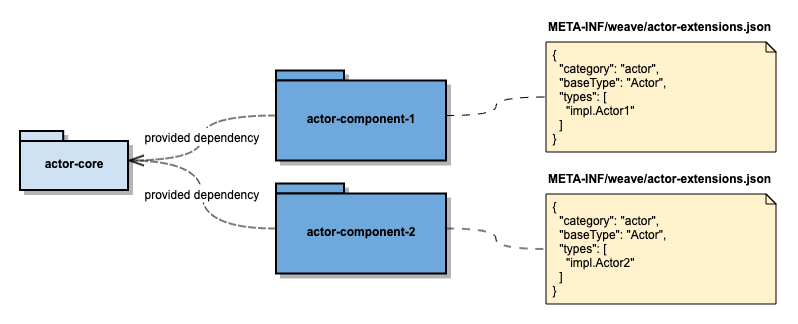
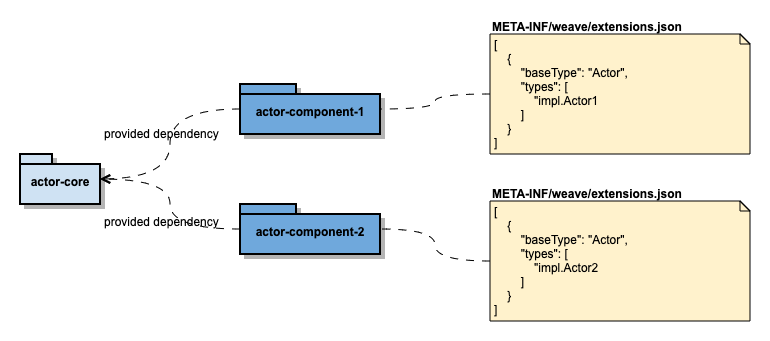
update to reflect change in extensions META-INF

Changed region(s): [[0.0, 0.216, 0.9974, 0.9568], [0.6234, 0.0617, 0.9974, 0.4938]]

diff --git a/docs/control-actor-product-component-structure.md b/docs/control-actor-product-component-structure.md
@@ -1,8 +1,10 @@
 # An extensible component structure built around { CONTROL, ACTOR, PRODUCT }
 
 ## The Basic Idea  
-Weave has an extensible component structure based on an idea distilled from a common practice in software engineering, **config**, which is widely adopted in methods/functions, classes, components, applications and complex distributed systems. Software engineers either intuitively or intentionally introduce configuration when writing code. The distilled idea consists 
-of three parts,
+Weave has an extensible component structure based on an idea distilled from a common practice in software engineering, 
+**config**, which is widely adopted in methods/functions, classes, components, applications and complex distributed 
+systems. Software engineers either intuitively or intentionally introduce configuration when writing code. The 
+distilled idea consists of three parts,
 
 ![](diagrams/CONTROL-ACTOR-PRODUCT.png)
 
@@ -38,36 +40,109 @@ For every component which wants to implement core concept,
 - extend/implement ActorControl
 - extend/implement Actor
 - bind implementations of ActorControl and Actor by ActorImpl.COMPANION_CONTROL_TYPE
-- package compiled component together with extension meta-info, which is important
+- package compiled component together with extension meta-info, which is important if the packaged library is meant to 
+be dynamically installed/uninstalled as extensions of enclosing application
 
 ![](diagrams/ACTOR-COMPONENT-EXTENSIONS-META-INF.png)
 
 ### Actor Binding Facility
-
 ![](diagrams/ACTOR-BINDING-FACILITY.png) 
 
-As long as application runtime can see packages of Actor Components, it can discover and weave the bindings using the facility as depicted in above diagram.
+As long as application runtime can see packages of Actor Components, it can discover and weave the bindings using the 
+facility as depicted in above diagram. Below code snippet is a showcase.
+
+```java
+package io.aftersound.weave.example;
+
+import io.aftersound.weave.actor.ActorBindings;
+import io.aftersound.weave.actor.ActorBindingsUtil;
+import io.aftersound.weave.actor.ActorFactory;
+import io.aftersound.weave.actor.ActorRegistry;
+import io.aftersound.weave.client.ClientFactory;
+import io.aftersound.weave.client.Endpoint;
+import io.aftersound.weave.utils.MapBuilder;
+import org.junit.Test;
+
+import java.util.Arrays;
+
+import static org.junit.Assert.assertEquals;
+
+public class ActorBindingFacilityTest {
+
+    /**
+     * Control: Endpoint
+     * Actor: io.aftersound.weave.client.ClientFactory
+     * Product: client of any type
+     * @throws Exception
+     */
+    @Test
+    public void testClientFactoryBindings() throws Exception {
+        ActorBindings<Endpoint, ClientFactory<?>, Object> clientFactoryBindings =
+                ActorBindingsUtil.loadActorBindings(
+                        Arrays.asList(
+                                "io.aftersound.weave.client.MyDBClientFactory",
+                                "io.aftersound.weave.client.MyDB2ClientFactory"
+                        ),
+                        Endpoint.class,
+                        Object.class,
+                        false
+                );
+
+        ActorRegistry<ClientFactory<?>> clientFactoryRegistry = new ActorFactory<>(clientFactoryBindings)
+                .createActorRegistryFromBindings(false);
+
+        // MyDBClient
+        Endpoint endpoint = Endpoint.of(
+                "MyDB",
+                "mydb.test.client",
+                MapBuilder.<String, String>hashMap().build()
+        );
+        Object client = clientFactoryRegistry.get(endpoint.getType()).createClient(endpoint);
+        assertEquals("io.aftersound.weave.client.MyDBClient", client.getClass().getName());
+
+        // MyDB2Client
+        endpoint = Endpoint.of(
+                "MyDB2",
+                "mydb2.test.client",
+                MapBuilder.<String, String>hashMap().build()
+        );
+        client = clientFactoryRegistry.get(endpoint.getType()).createClient(endpoint);
+        assertEquals("io.aftersound.weave.client.MyDB2Client", client.getClass().getName());
+    }
+
+}
+```
+
+You could find the complete sample at [ActorBindingFacilityTest.java](https://github.com/aftersound/weave-examples/blob/master/actor-binding-example/src/test/java/io/aftersound/weave/example/ActorBindingFacilityTest.java)
 
 ### Application built around {CONTROL,ACTOR,PRODUCT}
 
 ![](diagrams/ACP-BASED-APPLICATION.png)
 
-For application whose core is built around a set of {CONTROL,ACTOR,PRODUCT}, its component structure makes the application highly extensible and configurable to the level of declarative.  
+For application whose core is built around a set of {CONTROL,ACTOR,PRODUCT}, its component structure makes the 
+application highly extensible and configurable to the level of declarative.  
 
-- on installation of a package contains actor component, available types of ActorControl, Actor and Product can be discovered via packaged extensions meta-info and get registered.
+- on installation of a package contains actor component, available types of ActorControl, Actor and Product can be 
+discovered via packaged extensions meta-info and get registered.
 - on uninstallation of a package contains actor component, corresponding types get unregistered.
-- application level control/config will naturally consist of controls for registered actors. Once application sees a application control, it knows which types of actors are involved and how to get actor instances. Interaction among app-core and actor instances and inter-actor-instances is straightforward, because each actor instance knows exactly how to act in according to control matters to itself.
+- application level control/config will naturally consist of controls for registered actors. Once application sees an 
+application control, it knows which types of actors are involved and how to get actor instances. Interaction among 
+app-core and actor instances and inter-actor-instances is straightforward, because each actor instance knows exactly 
+how to act in according to control matters to itself.
 
 ## The Rationale
 
-(**Feel free to skip this part**, but it's highly recommended to go through the reasoning part behind the general component structure.)
+(**Feel free to skip this part**, but it's highly recommended to go through the reasoning part behind the general 
+component structure.)
 
-While conceptually the idea mentioned above is very simple to understand, to build an extensible component structure based on it is a different story. There are several points need to be tackled.
+While conceptually the idea mentioned above is very simple to understand, to build an extensible component structure 
+based on it is a different story. There are several points need to be tackled.
  
 ### 1.Separate control and actor  
 
 The idea of control is to make actor easy to change when needed. Because the lifecycle of control is different from 
-that of actor, separation between control and actor (to decouple the two) is needed to make change through control possible. However, that's not something guaranteed without discipline. Separation needs to happen at different levels,  
+that of actor, separation between control and actor (to decouple the two) is needed to make change through control 
+possible. However, that's not something guaranteed without discipline. Separation needs to happen at different levels,  
  * separate code of control from code of actor
  * separate persisted form of control from code of control and code actor
  * externalize persisted form of control from package of compiled control and actor  
@@ -78,29 +153,41 @@ compiled code, even a smallest change in one control parameter will need full de
 
 ### 2.Separate concept from implementations
 
-The idea of separating concept and implementation is well understood, however why/how to separate concept from implementation is not fully understood and grasped by all engineers. Separating concept from implementation happens at 2 levels,
+The idea of separating concept and implementation is well understood, however why/how to separate concept from 
+implementation is not fully understood and grasped by all engineers. Separating concept from implementation happens at 
+2 levels,
 * separate the code representing concept and the code representing implementation. Programming languages like Java gives
 good structures for this, interface/abstract class are for concept while concrete class is for implementation. 
 * separate the package of compiled binary for concept and the package of compiled binary for implementation.  
 
-In case of {CONTROL, ACTOR, PRODUCT}, both two levels of separation are needed to fully achieve extensibility of application built on a set of {CONTROL, ACTOR, PRODUCT}. Otherwise, the system is still somewhat rigid for change.
+In case of {CONTROL, ACTOR, PRODUCT}, both two levels of separation are needed to fully achieve extensibility of 
+application built on a set of {CONTROL, ACTOR, PRODUCT}. Otherwise, the system is still somewhat rigid for change.
 
 ### 3.Separate among implementations
 
-Separation among implementations is equally important as separating concept from implementations. Reason is different implementations often have different paces of change. It's not a good idea to bundle too many implementations together.
+Separation among implementations is equally important as separating concept from implementations. Reason is different 
+implementations often have different paces of change. It's not a good idea to bundle too many implementations together.
 
 ### 4.Bind control, actor and product without knowing implementations upfront
 
-After proper separation is achieved, the question comes to how and when to bind them. Fortunately, many good examples are out there for reference. It's completely doable to create a micro-framework which has the capability to do deferred binding between {control, actor, product} and its implementations, and between control and actor of an implementation.
+After proper separation is achieved, the question comes to how and when to bind them. Fortunately, many good examples 
+are out there for reference. It's completely doable to create a micro-framework which has the capability to do deferred 
+binding between {control, actor, product} and its implementations, and between control and actor of an implementation.
 
 ### 5.Representation form of control
 
-In point 1, it's mentioned that the third level of separation of control and actor is to externalize persisted form of control, meaning control as configuration is maintained out side of actor binary package. It's easy to do. However, special care must be taken to choose the representation form for control, which has unknown set of varieties. For example, an application needs to connect to Cassandra cluster and also Couchbase cluster. At high level both are about creating client connectiions, involving connection parameters, such as server list, ports, etc. But looking closer, connection parameters are very different. 
-Externalized representation needs to 
+In point 1, it's mentioned that the third level of separation of control and actor is to externalize persisted form of 
+control, meaning control as configuration is maintained out side of actor binary package. It's easy to do. However, 
+special care must be taken to choose the representation form for control, which has unknown set of varieties. For 
+example, an application needs to connect to Cassandra cluster and also Couchbase cluster. At high level both are about 
+creating client connectiions, involving connection parameters, such as server list, ports, etc. But looking closer, 
+connection parameters are very different. Externalized representation needs to 
 * be able to capture the difference in varieties of controls
-* meanwhile also be able to make it easier to convert representation into something easier for actor to consume at runtime  
+* meanwhile also be able to make it easier to convert representation into something easier for actor to consume at 
+runtime  
 
-You might suggest to use JSON/Yaml. Yes, they are very popular for externalized control/configuration. There are many good reasons, but IMO, the main reason is JSON/Yaml meets above two mentioned requirements.
+You might suggest to use JSON/Yaml. Yes, they are very popular for externalized control/configuration. There are many 
+good reasons, but IMO, the main reason is JSON/Yaml meets above two mentioned requirements.
 
 ## Summary
 The component structure and the micro-framework implemented in Weave has following characteristics,  
@@ -108,4 +195,5 @@ The component structure and the micro-framework implemented in Weave has followi
 - complete separation between concept core and concrete components
 - complete separation between control and actor of every concrete component
 - completely externalized control from component package and application package
-- as long as the contract established by each actor core remains same, concrete component, its package, and externalized control for actor can evolve separately at own pace and their lifecycles can be managed separately.
+- as long as the contract established by each actor core remains same, concrete component, its package, and externalized 
+control for actor can evolve separately at own pace and their lifecycles can be managed separately.
